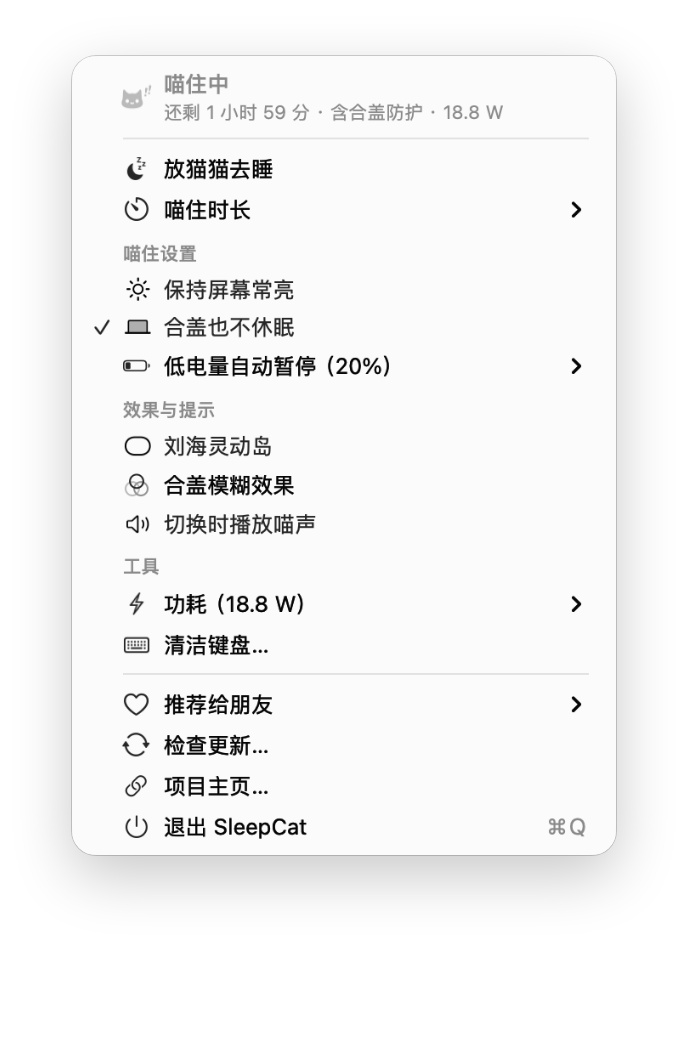
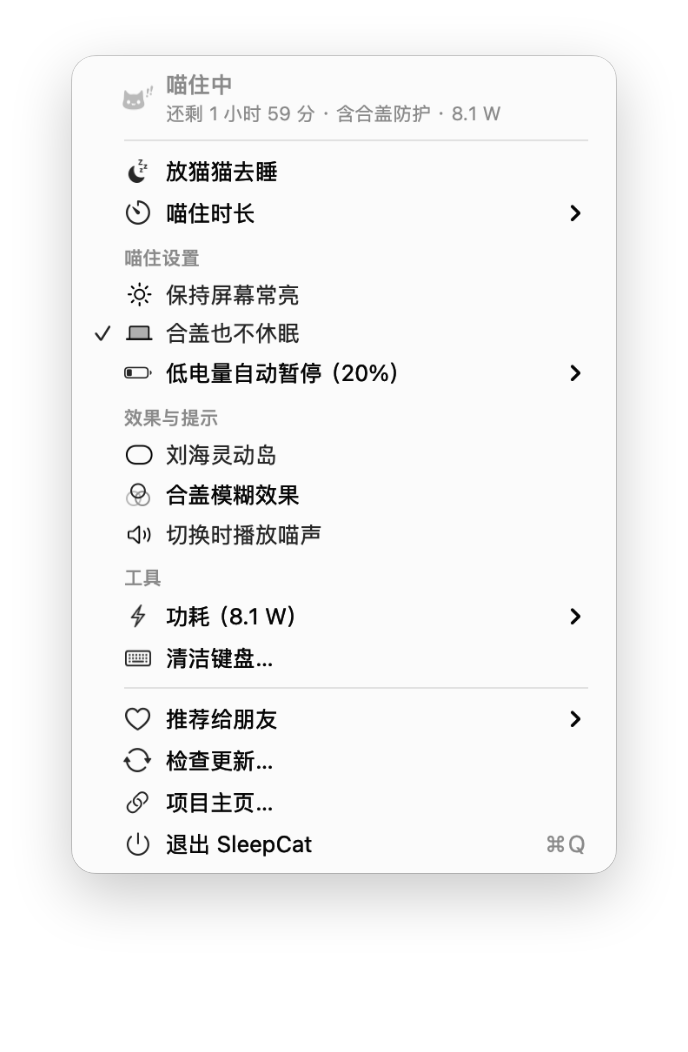
Keep island content below the notch; fix stale blur descriptions
The expanded island was 84pt tall with its content centred, which put the
title inside the 37.5pt hardware notch — the middle of the text simply
wasn't visible. The capsule is now notch height plus a 56pt content band
and everything is laid out in that band; the preview renders a
notch-check image with the notch outlined.

The blur tooltip, class docs and README still described the old
hinge-to-edge gradient; they now describe the even full-screen blur, and
the per-height curves that nothing used any more are removed.

diff --git a/Sources/SleepCat/NotchIsland.swift b/Sources/SleepCat/NotchIsland.swift
@@ -48,10 +48,15 @@ final class NotchIsland: NSObject {
                       width: width, height: height)
     }
 
-    /// 展开态：刘海下方的胶囊
+    /// 展开态：刘海下方的胶囊。内容必须整个排在刘海下面——
+    /// 刘海是屏幕上的硬件挖孔，画在那一块的字根本显示不出来
+    static let contentHeight: CGFloat = 56
+
+    private var notchHeight: CGFloat { screen?.safeAreaInsets.top ?? 0 }
+
     private var expandedFrame: NSRect {
         guard let s = screen else { return .zero }
-        let size = NSSize(width: 404, height: 84)   // 右边留出功耗读数的位置
+        let size = NSSize(width: 404, height: notchHeight + Self.contentHeight)   // 右边留出功耗读数的位置
         return NSRect(x: s.frame.midX - size.width / 2, y: s.frame.maxY - size.height,
                       width: size.width, height: size.height)
     }
@@ -74,6 +79,7 @@ final class NotchIsland: NSObject {
 
         let v = IslandView(frame: NSRect(origin: .zero, size: collapsedFrame.size))
         v.island = self
+        v.topInset = notchHeight
         v.alphaValue = 0
         p.contentView = v
         p.orderFrontRegardless()
@@ -164,7 +170,8 @@ final class NotchIsland: NSObject {
 extension NotchIsland {
     /// 调试用：把展开态的岛离屏渲染成 PNG（2x）
     static func renderPreview(toDirectory dir: String) {
-        let size = NSSize(width: 404, height: 84)
+        let notch = NSSize(width: 208, height: 37.5)   // 14 寸 MacBook Pro 的刘海
+        let size = NSSize(width: 404, height: notch.height + contentHeight)
         let samples: [(String, Status)] = [
             ("island-active", Status(active: true, title: "喵住中", detail: "还剩 1 小时 59 分 · 点按停止", watts: 12.5)),
             ("island-idle", Status(active: false, title: "打盹中", detail: "Mac 可正常休眠 · 点按喵住", watts: 4.3)),
@@ -172,6 +179,7 @@ extension NotchIsland {
         for (name, status) in samples {
             let v = IslandView(frame: NSRect(origin: .zero, size: size))
             v.alphaValue = 1
+            v.topInset = notch.height
             v.apply(status)
             let w = NSWindow(contentRect: NSRect(origin: .zero, size: size),
                              styleMask: .borderless, backing: .buffered, defer: false)
@@ -183,6 +191,17 @@ extension NotchIsland {
             if let data = rep.representation(using: .png, properties: [:]) {
                 try? data.write(to: URL(fileURLWithPath: "\(dir)/\(name).png"))
             }
+            // 检查图：用红框标出硬件刘海的位置，框里不能有任何字
+            NSGraphicsContext.saveGraphicsState()
+            NSGraphicsContext.current = NSGraphicsContext(bitmapImageRep: rep)
+            let notchRect = NSRect(x: (size.width - notch.width) / 2, y: size.height - notch.height,
+                                   width: notch.width, height: notch.height)
+            NSColor.systemRed.withAlphaComponent(0.35).setFill()
+            notchRect.fill()
+            NSGraphicsContext.restoreGraphicsState()
+            if let data = rep.representation(using: .png, properties: [:]) {
+                try? data.write(to: URL(fileURLWithPath: "\(dir)/\(name)-notch-check.png"))
+            }
         }
     }
 }
@@ -191,6 +210,8 @@ extension NotchIsland {
 
 private final class IslandView: NSView {
     weak var island: NotchIsland?
+    /// 顶部被刘海占掉的高度，内容只排在它下面
+    var topInset: CGFloat = 0 { didSet { needsLayout = true } }
 
     private let capsule = NSView()
     private let iconView = NSImageView()
@@ -250,22 +271,25 @@ private final class IslandView: NSView {
     override func layout() {
         super.layout()
         capsule.frame = bounds
+        // 内容区：去掉顶部刘海那一截，下面的元素都按这块区域居中
+        let content = NSRect(x: 0, y: 0, width: bounds.width, height: max(0, bounds.height - topInset))
+        let midY = content.midY
         let iconSize = NSSize(width: 36, height: 30)
-        iconView.frame = NSRect(x: 24, y: bounds.midY - iconSize.height / 2 - 2,
+        iconView.frame = NSRect(x: 24, y: midY - iconSize.height / 2 - 2,
                                 width: iconSize.width, height: iconSize.height)
         // 右侧功耗：读数右对齐，闪电贴在读数左边
         let powerWidth: CGFloat = powerLabel.stringValue.isEmpty ? 0 : 76
-        powerLabel.frame = NSRect(x: bounds.width - 22 - powerWidth, y: bounds.midY - 13,
+        powerLabel.frame = NSRect(x: bounds.width - 22 - powerWidth, y: midY - 13,
                                   width: powerWidth, height: 22)
         let boltSize: CGFloat = 12
         let textWidth = powerLabel.attributedStringValue.size().width
-        powerIcon.frame = NSRect(x: powerLabel.frame.maxX - textWidth - boltSize - 4, y: bounds.midY - 8,
+        powerIcon.frame = NSRect(x: powerLabel.frame.maxX - textWidth - boltSize - 4, y: midY - 8,
                                  width: boltSize, height: boltSize + 2)
 
         let textX = iconView.frame.maxX + 14
         let textRight = powerWidth > 0 ? powerIcon.frame.minX - 10 : bounds.width - 16
-        titleLabel.frame = NSRect(x: textX, y: bounds.midY, width: textRight - textX, height: 18)
-        detailLabel.frame = NSRect(x: textX, y: bounds.midY - 17, width: textRight - textX, height: 15)
+        titleLabel.frame = NSRect(x: textX, y: midY, width: textRight - textX, height: 18)
+        detailLabel.frame = NSRect(x: textX, y: midY - 17, width: textRight - textX, height: 15)
     }
 
     override func mouseDown(with event: NSEvent) {

diff --git a/Sources/SleepCat/FoldGeometry.swift b/Sources/SleepCat/FoldGeometry.swift
@@ -4,8 +4,7 @@
 
 import Foundation
 
-/// 合盖模糊的曲线：起始角度、各高度的模糊和压暗强度。
-/// 参数取自 iPhone Duo 折叠转场的观感——铰链边清晰，远边先糊先黑。
+/// 合盖模糊的曲线：起始角度、模糊和压暗随合盖进度怎么增长。
 /// 全是纯函数，方便单测
 enum FoldGeometry {
     /// 开始折叠的角度（度）。比这更开就是完全清晰
@@ -19,21 +18,8 @@ enum FoldGeometry {
     /// 变暗整体强度：比模糊来得早一点
     static func dimStrength(progress: Double) -> Double { pow(max(0, progress), 0.9) }
 
-    /// 画面上某个高度（g：0＝铰链边，1＝远边）该有多糊，0…1
-    static let blurFloor: Double = 0.08
-    static func blurProfile(atHeight g: Double) -> Double {
-        let t = min(1, max(0, g))
-        return blurFloor + (1 - blurFloor) * pow(t, 1.35)
-    }
-
-    /// 同一高度该有多暗，0…1。铰链附近不压暗，远边最黑
-    static let dimStart: Double = 0.18
+    /// 合到底时压暗的最大浓度
     static let maxDim: Double = 0.92
-    static func dimProfile(atHeight g: Double) -> Double {
-        let spread = (min(1, max(0, g)) - dimStart) / (1 - dimStart)
-        guard spread > 0 else { return 0 }
-        return pow(spread, 1.9) * maxDim
-    }
 }
 
 /// 临界阻尼弹簧：把 100Hz 上来的整数角度磨成显示器刷新率上的连续值，不抖也不过冲

diff --git a/Sources/SleepCat/DuoBlur.swift b/Sources/SleepCat/DuoBlur.swift
@@ -14,13 +14,11 @@ enum BlurGate {
     }
 }
 
-/// Duo 合盖模糊：铰链角度传感器驱动的全屏渐进模糊。
+/// 合盖模糊：铰链角度传感器驱动的整屏模糊。
 /// 盖子合到 100° 开始起雾，40° 拉满；重新打开反向消散。只出现在内建屏幕上。
 ///
-/// 渲染按 iPhone Duo 折叠的那套来，但不读屏幕内容、不要任何权限：
-/// 1. 渐进模糊：铰链边始终清晰，越往远边越糊，半径按 g^1.35 涨（和 Duo 的曲线一致）
-/// 2. 渐隐到黑：远边先暗下去，接近合死时整屏没入黑暗
-/// 都是背景滤镜，由系统每帧合成，所以底下的画面在动，模糊后面也跟着动
+/// 整屏一层系统毛玻璃 + 一层压暗，浓度跟着角度连续变化。
+/// 不读屏幕内容、不需要任何权限，由系统每帧合成，底下的画面在动，模糊后面也跟着动
 final class DuoBlur {
     private let sensor: LidAngleSensor
     private var window: NSWindow?

diff --git a/Tests/SleepCatTests/SleepCatTests.swift b/Tests/SleepCatTests/SleepCatTests.swift
@@ -618,16 +618,6 @@ import AppKit
 }
 
 @Suite struct FoldGeometryTests {
-    @Test func profilesStaySharpAtTheHinge() {
-        #expect(FoldGeometry.blurProfile(atHeight: 0) == FoldGeometry.blurFloor)
-        #expect(FoldGeometry.blurProfile(atHeight: 1) == 1)
-        #expect(FoldGeometry.dimProfile(atHeight: 0) == 0)
-        #expect(FoldGeometry.dimProfile(atHeight: FoldGeometry.dimStart) == 0, "铰链附近不压暗")
-        #expect(abs(FoldGeometry.dimProfile(atHeight: 1) - FoldGeometry.maxDim) < 0.001)
-        let ramp = stride(from: 0.0, through: 1.0, by: 0.05).map { FoldGeometry.dimProfile(atHeight: $0) }
-        for (a, b) in zip(ramp, ramp.dropFirst()) { #expect(b >= a) }
-    }
-
     @Test func strengthCurvesStartSlow() {
         #expect(FoldGeometry.blurStrength(progress: 0) == 0)
         #expect(FoldGeometry.blurStrength(progress: 1) == 1)

diff --git a/Sources/SleepCat/main.swift b/Sources/SleepCat/main.swift
@@ -648,7 +648,7 @@ final class SleepCatApp: NSObject, NSApplicationDelegate, NSMenuDelegate {
         menu.addItem(duoItem)
 
         let blurItem = makeItem("合盖模糊效果", #selector(toggleDuoBlurSetting), symbol: "camera.filters")
-        blurItem.toolTip = "合盖时屏幕渐进模糊：铰链边保持清晰，远边越来越糊并暗下去"
+        blurItem.toolTip = "合盖时整屏模糊并暗下去，合得越多越糊，重新打开就消散"
         if duoBlur != nil {
             blurItem.state = duoBlurEnabled ? .on : .off
         } else {

diff --git a/README.md b/README.md
@@ -48,7 +48,7 @@ curl -fsSL https://raw.githubusercontent.com/SuInk/sleepcat/main/install.sh | ba
   - 同时保持屏幕常亮（可选，默认只防系统休眠）
   - 音效：喵（代码合成）/ 呼噜（默认关闭）
 - 🏝 **Duo 岛**：把 MacBook 刘海当灵动岛用（iPhone Duo 风格）——平时隐身，鼠标悬停到刘海或喵住状态变化时流畅展开成黑色胶囊，显示猫猫状态、剩余时间和**实时整机功耗**（展开期间每秒刷新），点按直接切换；菜单可关
-- 🌫 **合盖渐进模糊**：读取 MacBook 内置的铰链角度传感器（HID Sensor 0x20/0x8A），合盖过程中屏幕实时渐进模糊——**铰链边始终清晰，越往远边越糊并渐隐到黑**，模糊半径按高度以 g^1.35 增长、最大 90pt，整体强度按 progress^1.45 增长（取自 iPhone Duo 折叠转场的观感曲线）。100° 起雾、40° 拉满，重新打开反向消散。全部用背景滤镜实时合成，**不读屏幕内容、不需要任何权限**。角度用临界阻尼弹簧平滑，盖子一动按 60 帧跟手，停稳后降到 10 帧省电。盖子停在半路、合到底都保持；只有屏幕正被远程控制 / 屏幕共享 / 录屏持续监看时才自动让开。只画在内建屏幕上。调试：`SleepCat --lid-angle` 打印实时角度，`SleepCat --blur-sweep` 模拟一次合盖
+- 🌫 **合盖模糊**：读取 MacBook 内置的铰链角度传感器（HID Sensor 0x20/0x8A），合盖过程中整屏模糊并暗下去，合得越多越糊：100° 起雾、40° 拉满，重新打开反向消散。用系统毛玻璃实时合成，**不读屏幕内容、不需要任何权限**。角度用临界阻尼弹簧平滑，盖子一动按 60 帧跟手，停稳后降到 10 帧省电。盖子停在半路、合到底都保持；只有屏幕正被远程控制 / 屏幕共享 / 录屏持续监看时才自动让开。只画在内建屏幕上，**默认关闭**。调试：`SleepCat --lid-angle` 打印实时角度，`SleepCat --blur-sweep` 模拟一次合盖
 <p align="center">
   <img src="docs/images/features.png" width="888" alt="左：刘海灵动岛显示喵住中、还剩 1 小时 59 分；右：清洁键盘时的「键盘已禁用」面板">
 </p>
